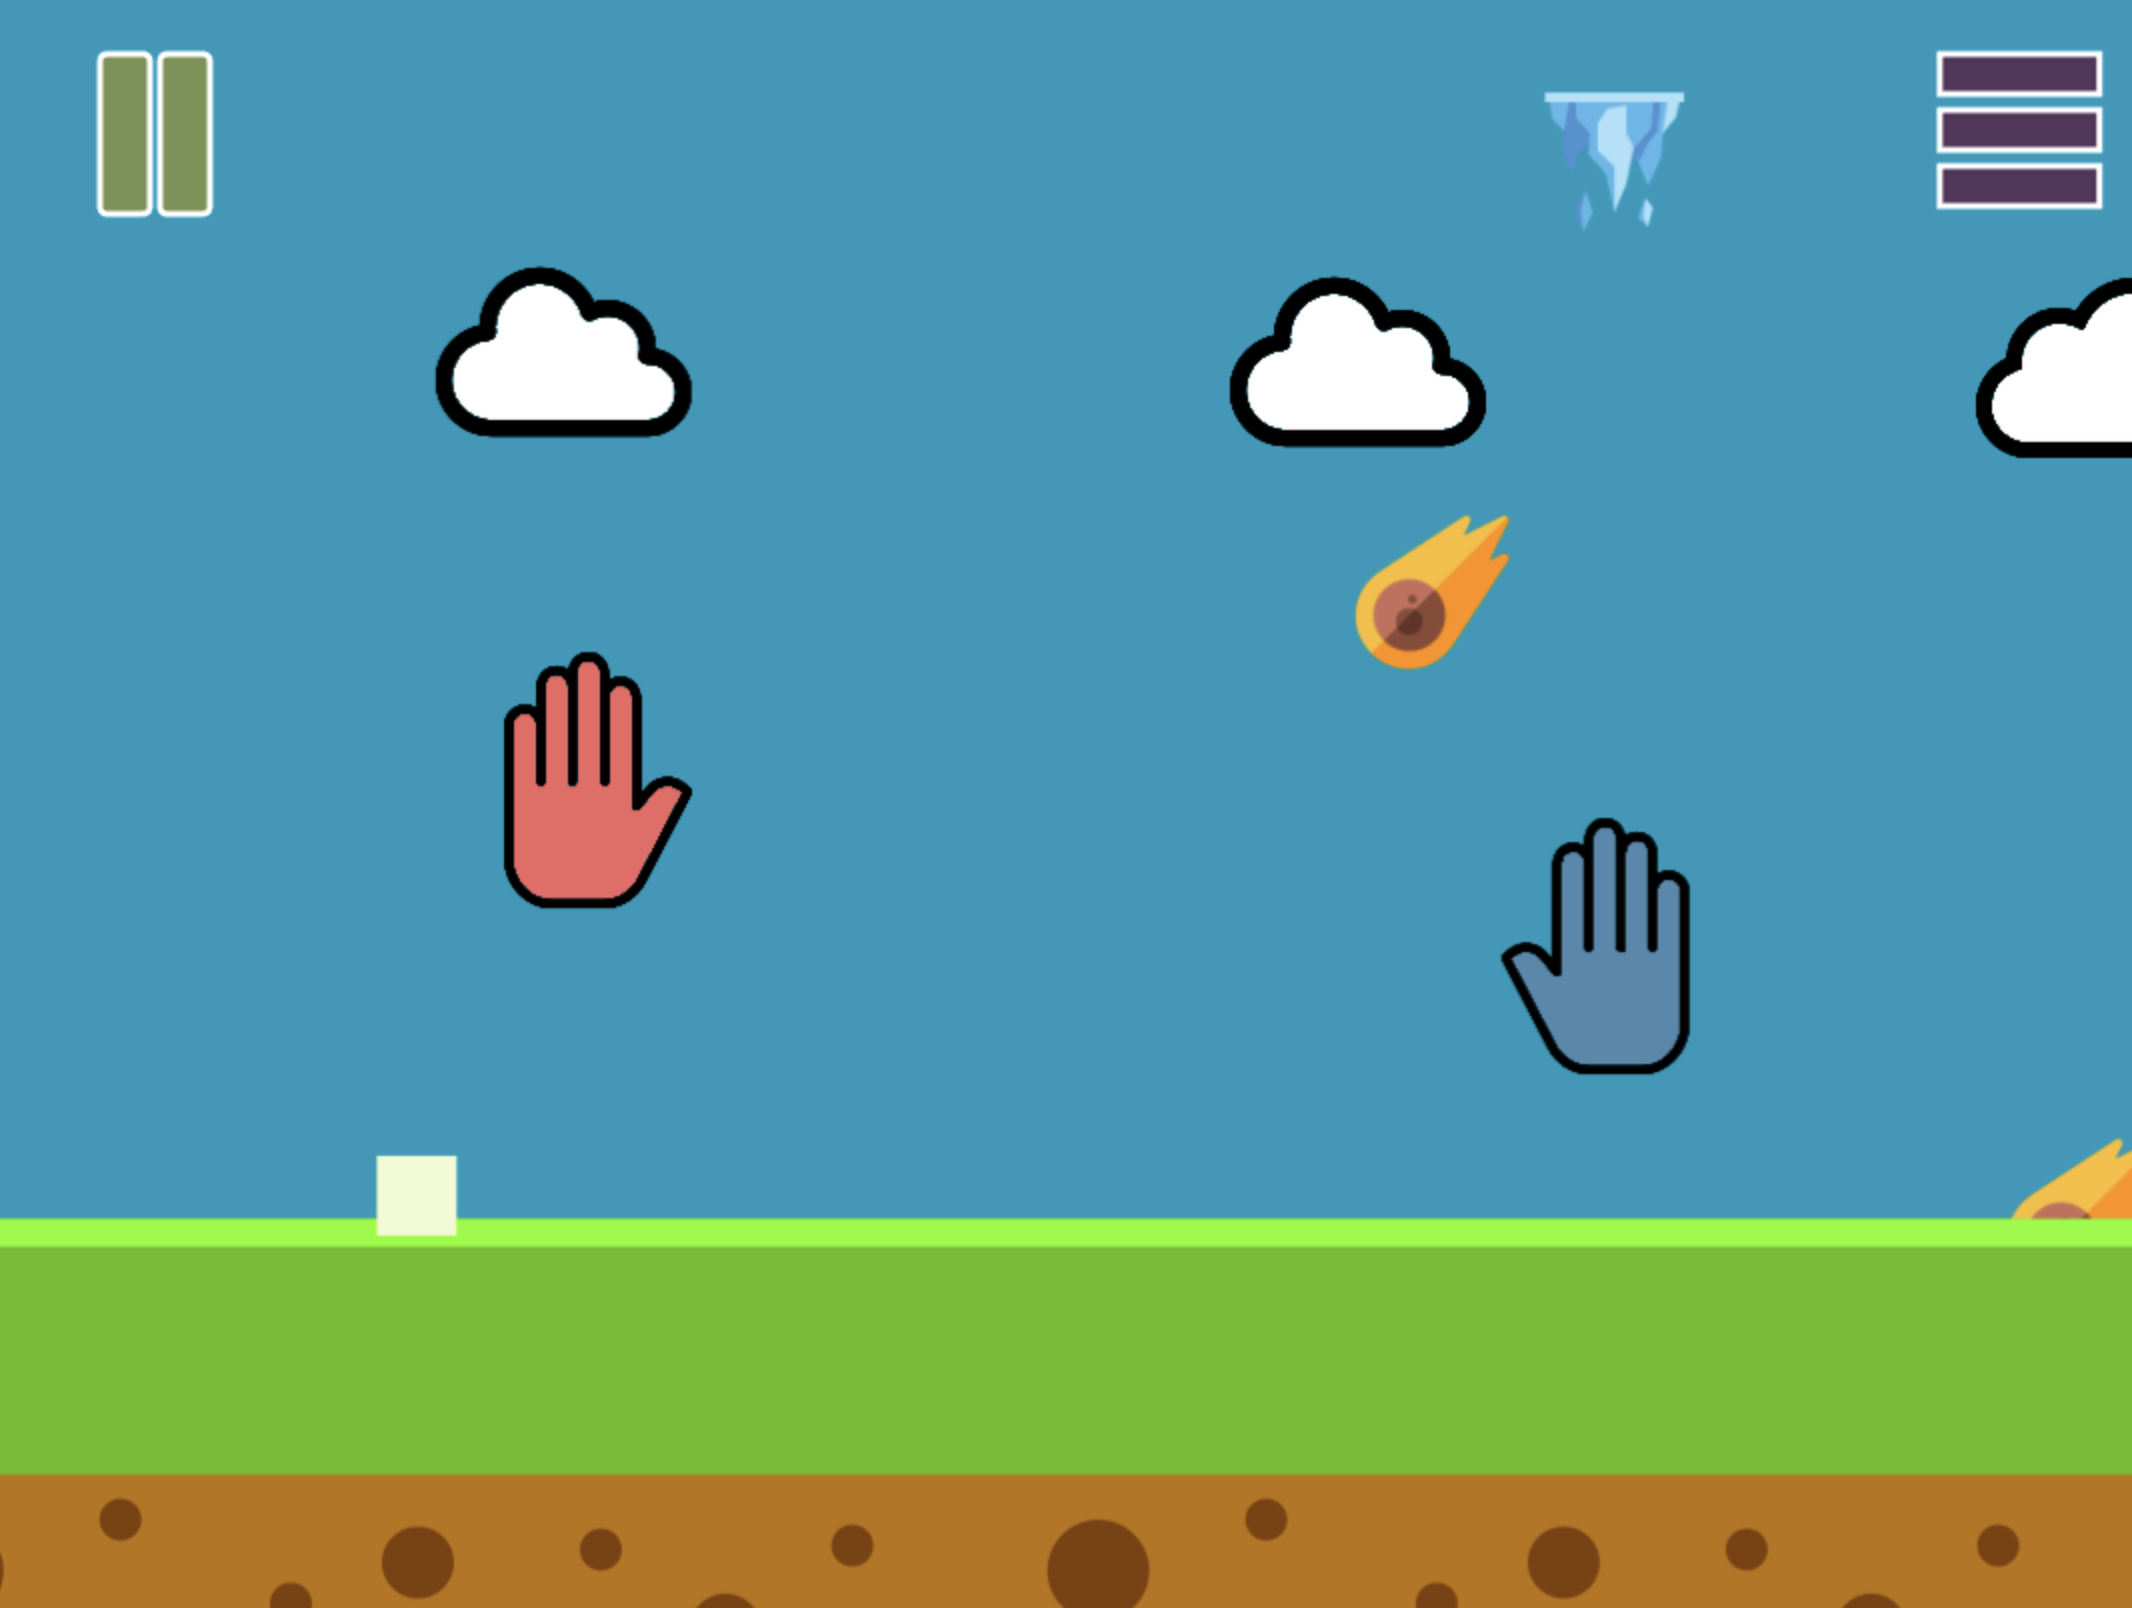
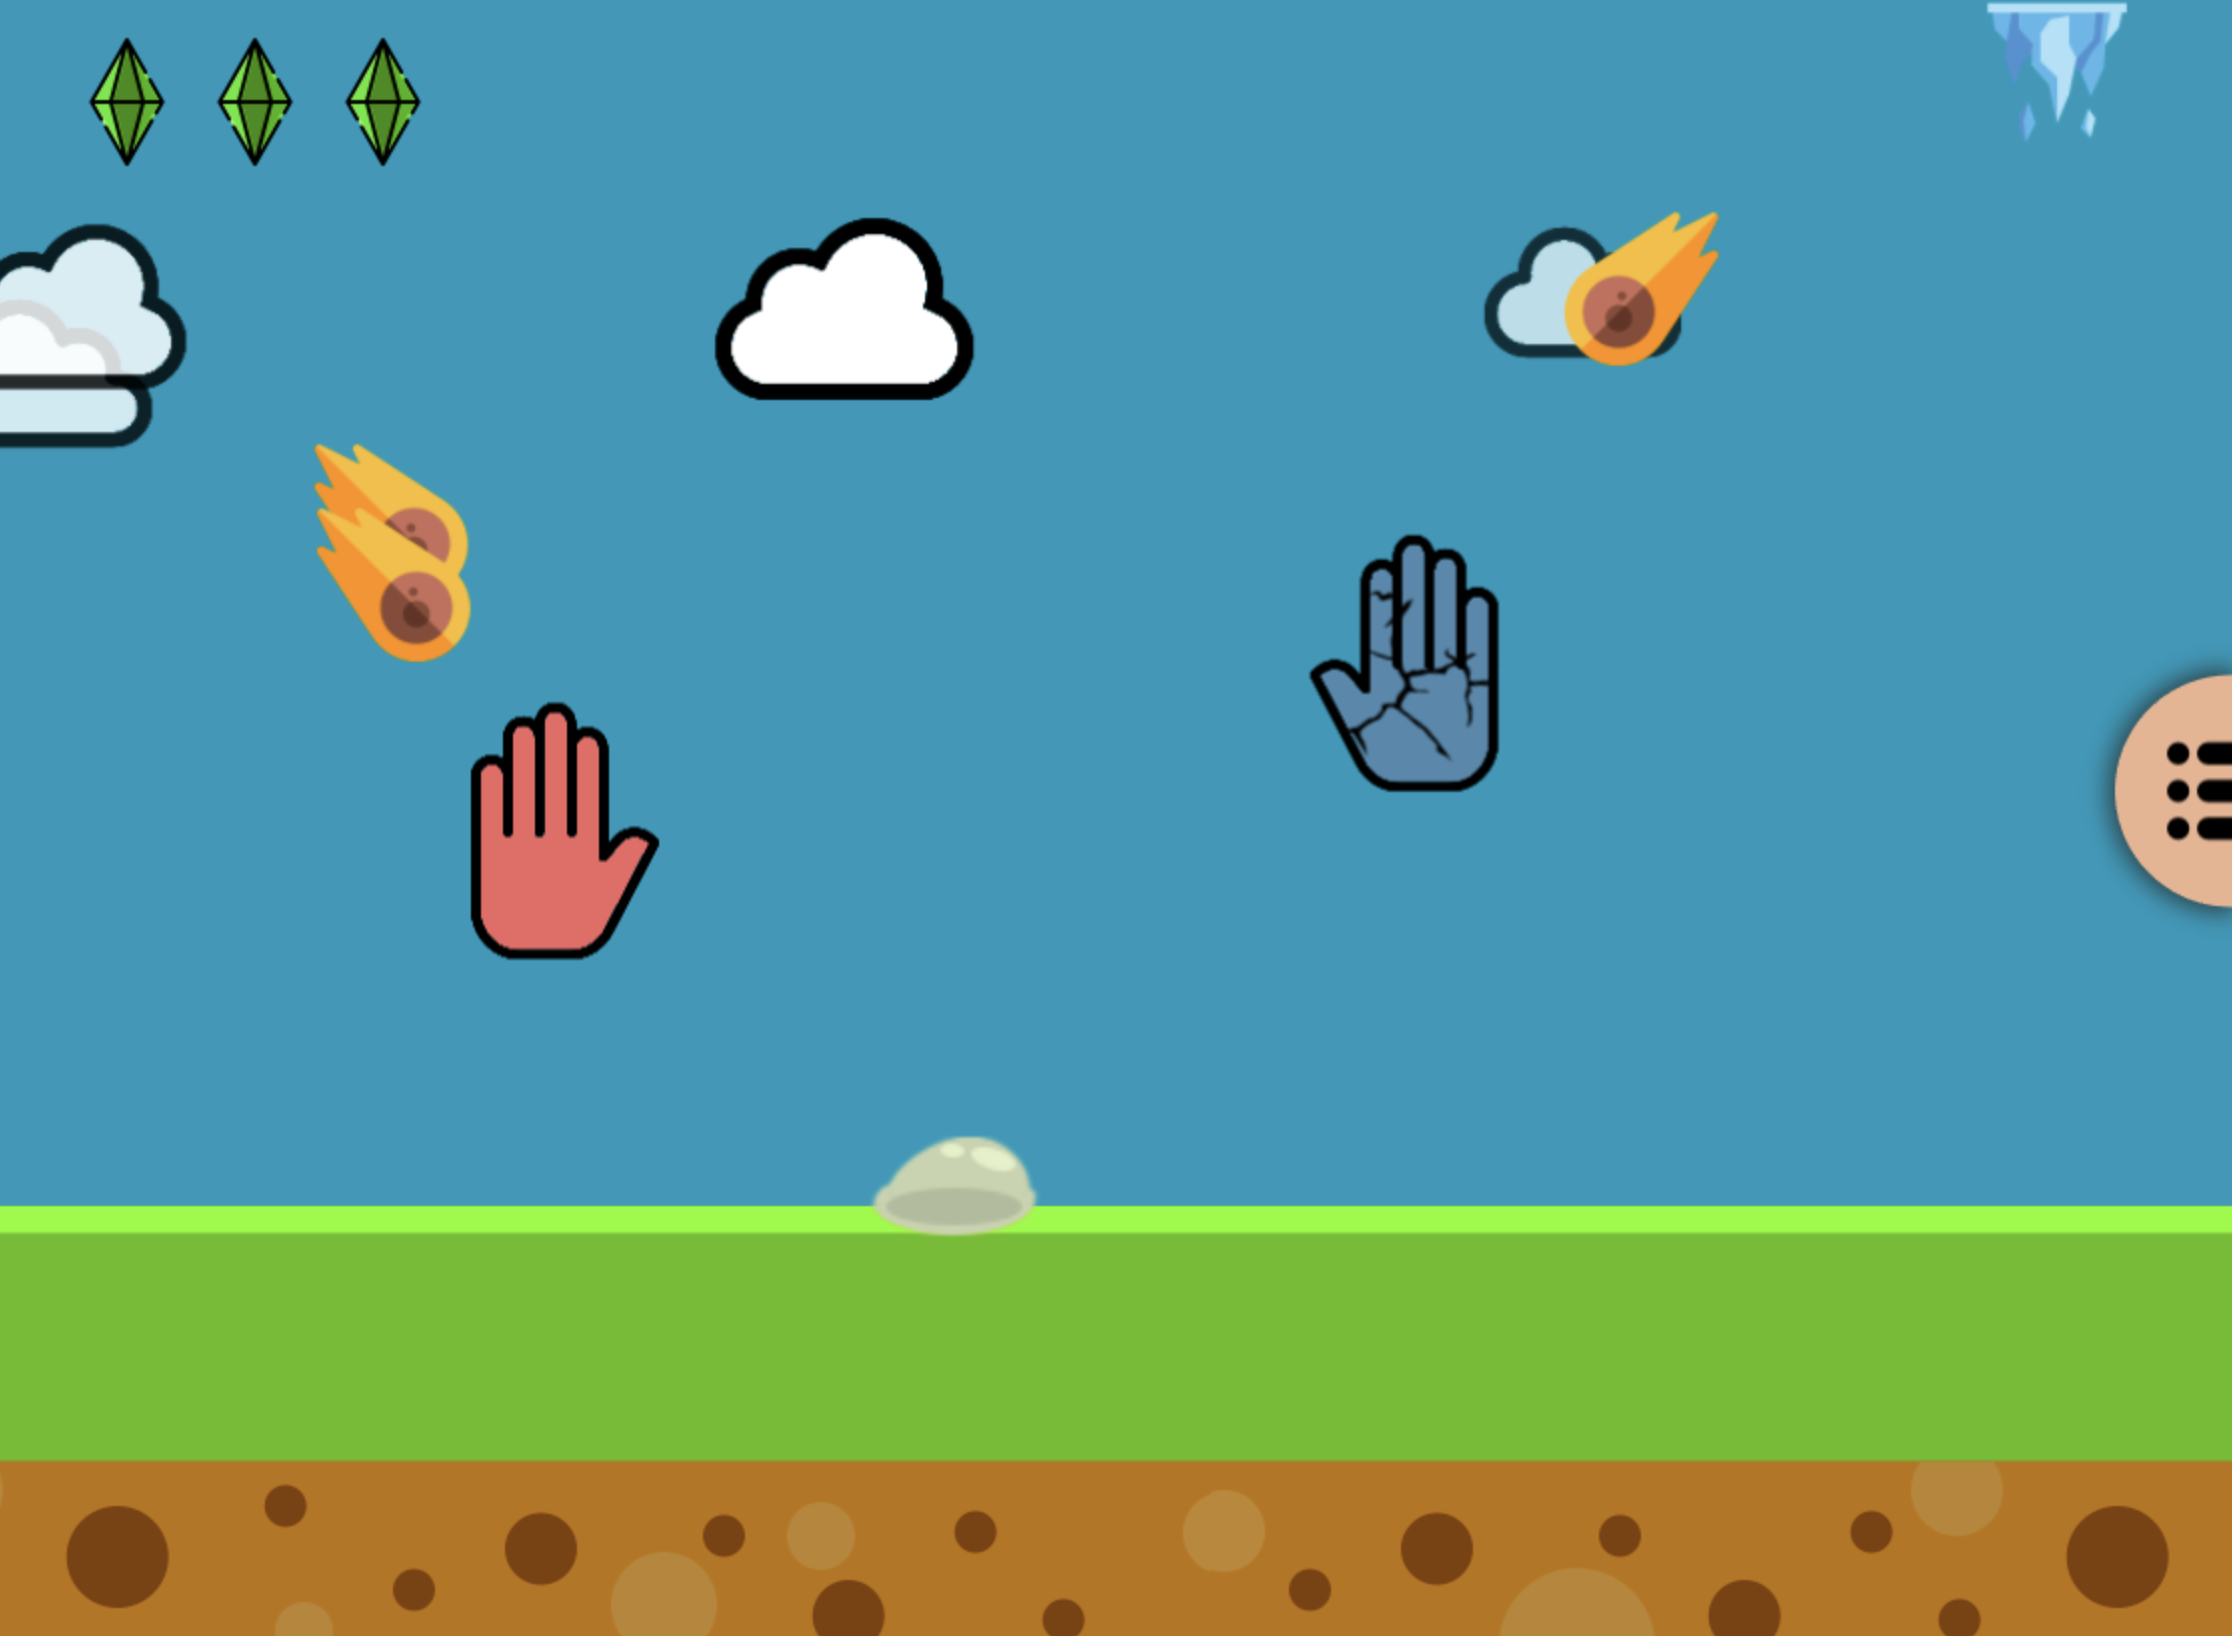
feature/P3DC-14_buggy_overlay_menu_on_game_over_and_win
- P3DC-14:
  - added new previews
  - reduced meteors speed
  - fixed issue where menu was disabled when accidently hovering over uiRadialAccessButton inside of winning screen

diff --git a/src/components/pixi.js/levels/previews/PixiJSLevelTwoPreview.jsx b/src/components/pixi.js/levels/previews/PixiJSLevelTwoPreview.jsx
@@ -7,6 +7,8 @@ import { addPixiTick } from 'components/pixi.js/SharedTicks';
 import { uiMenuButton } from 'components/pixi.js/PixiJSButton';
 import { UiMenu } from 'components/pixi.js/UiMenu';
 import { quitBtnFn } from 'components/pixi.js/PixiJSMenu';
+import previewImg from "static/assets/pixi.js/img/previewImg/PreviewLevelTwo.png";
+
 
 export const PixiJSLevelTwoPreview = (props) => {
 
@@ -14,7 +16,11 @@ export const PixiJSLevelTwoPreview = (props) => {
         [preview.level.container]: prevContainer,
         [preview.level.returnBtn]: returnButton,
         [preview.level.startBtn]: startButton,
-    } = getPixiJsPreviewContainer('Hard');
+    } = getPixiJsPreviewContainer(
+        'Hard',
+        'Etwas härter, aber definitiv nicht zu schwer. Im Untergrund ist euer Geschick gefragt. Versucht bis ans Ende des Untergrundpfades zu gelangen und vermeidet von den Fallen getroffen zu werden.',
+        previewImg
+    );
 
     const creditsUiButton = uiMenuButton(assetRsrc.ui.dollar, 'creditsSuffix', 'Credits');
     const returnUiButton = uiMenuButton(assetRsrc.ui.return, 'returnSuffix', 'Back');

diff --git a/src/components/pixi.js/PixiJSGameObjects.js b/src/components/pixi.js/PixiJSGameObjects.js
@@ -158,6 +158,8 @@ export const runPlayerFinishAnimation = (
             ) {
                 player.playAnimation(onStartAnim.state, onStartAnim.animation);
             }
+
+            removePixiTick(app, listenerKeys.menu.uiMenuPullerTick);
         },
         onComplete: () => {
             if (onCompleteAnimations && Object.getOwnPropertyNames(onCompleteAnimations).length > 0) {

diff --git a/src/components/pixi.js/levels/scenes/PixiJSLevelTwo.jsx b/src/components/pixi.js/levels/scenes/PixiJSLevelTwo.jsx
@@ -704,8 +704,8 @@ export const PixiJSLevelTwo = (props) => {
         };
         const meteorAccelBounds = {
             x: {
-                min: 5.2,
-                max: 5.4,
+                min: 4.2,
+                max: 4.4,
             },
             y: {
                 min: -0.3,
